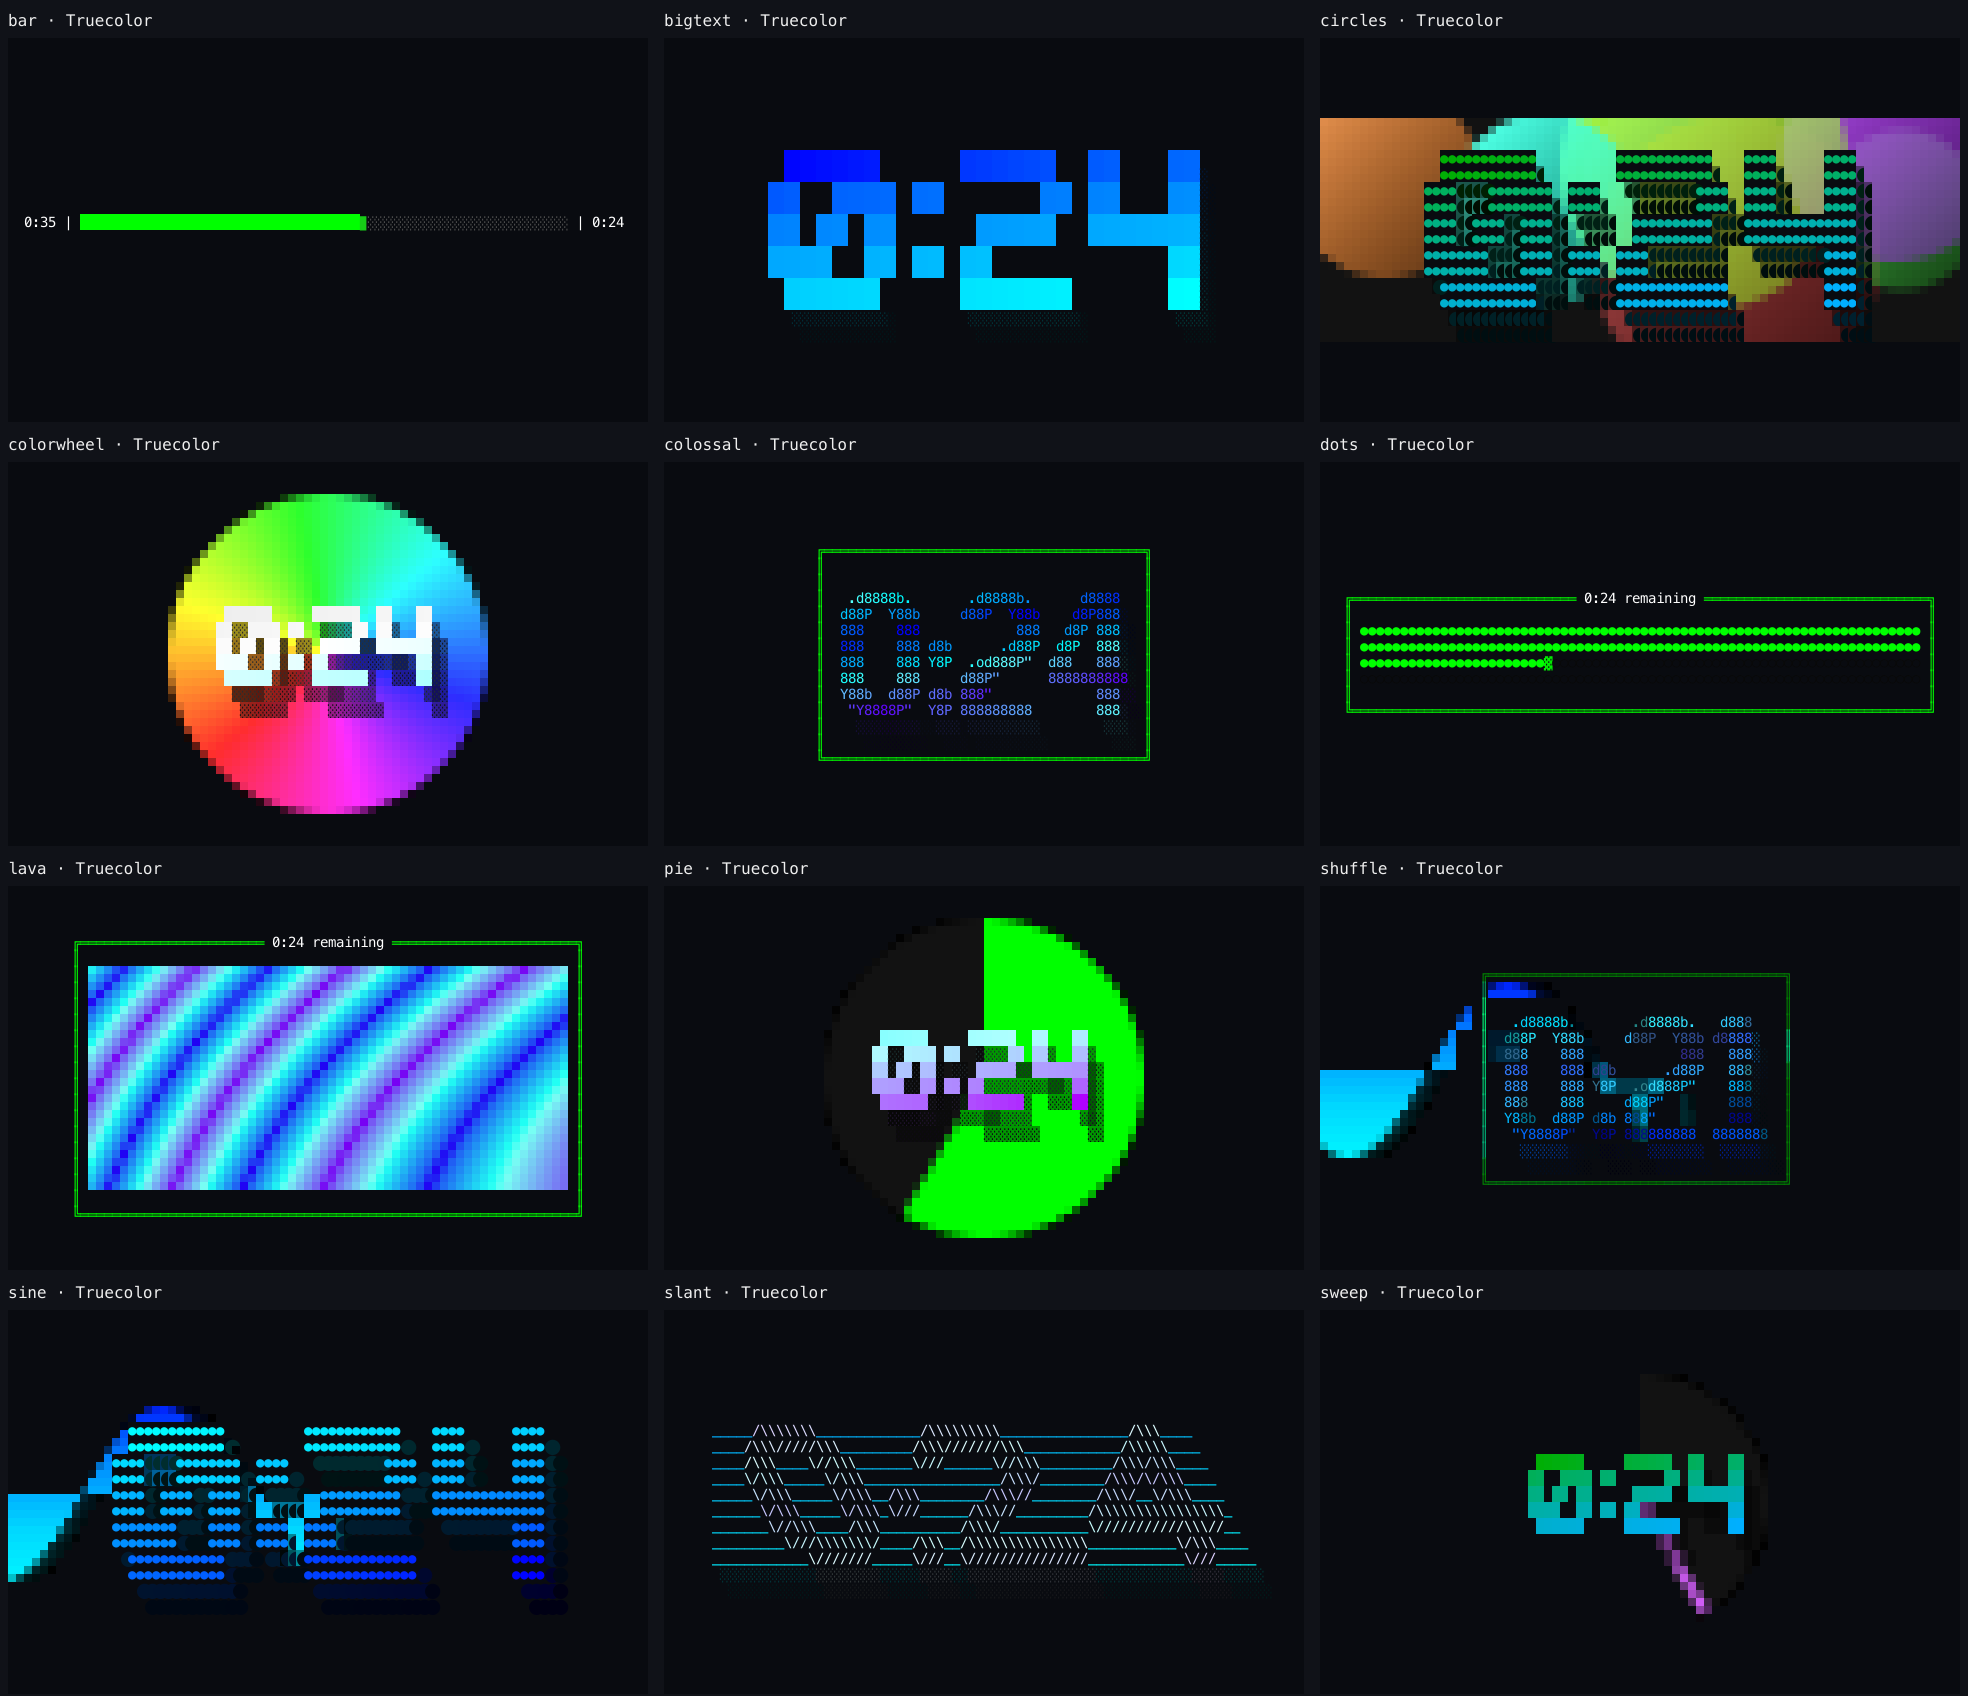
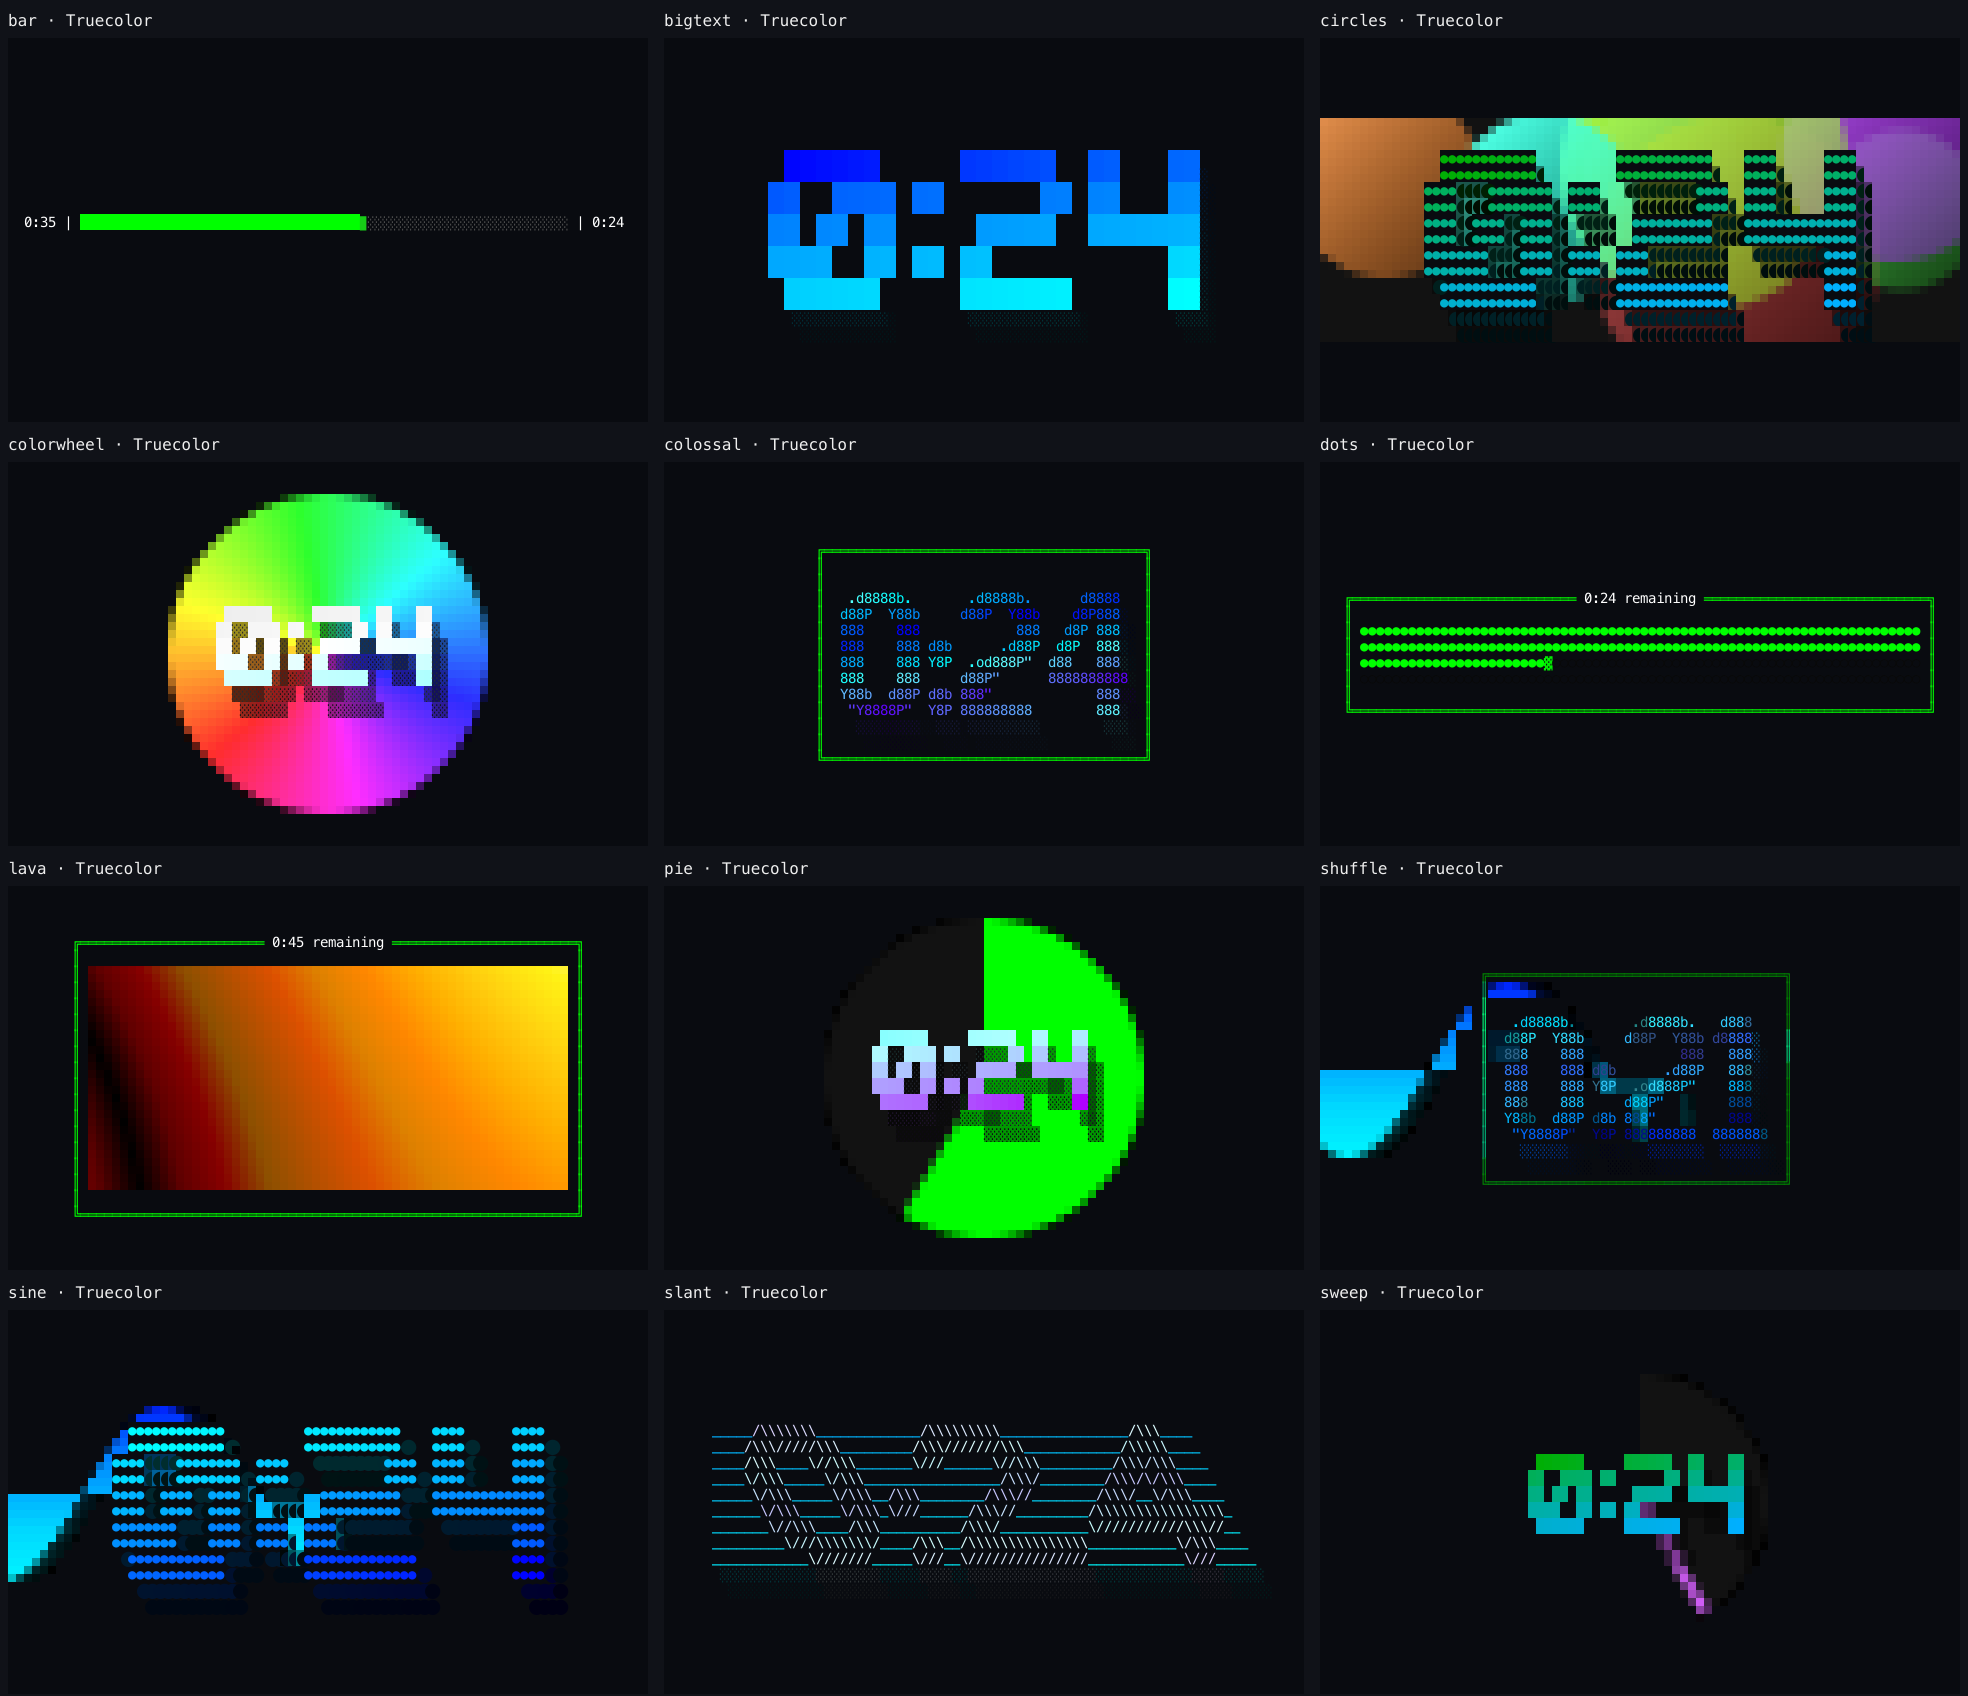
fix: soften lava bands in 256-color terminals

Changed region(s): [[0.031, 0.5625, 0.31, 0.7188]]

diff --git a/src/effects.rs b/src/effects.rs
@@ -10,10 +10,15 @@ use crate::{
         put_color, text,
     },
     model::TimerDetails,
-    palette::DOUBLE_GRADIENTS,
 };
 
 const MAP_SIZE: usize = 800;
+// Related warm ramps stay saturated while crossfading, including after quantization.
+const LAVA_GRADIENTS: &[&[u8]] = &[
+    &[16, 52, 88, 124, 160, 196, 202, 208, 214, 220, 226, 230],
+    &[16, 52, 88, 124, 160, 196, 202, 208, 214, 215, 216, 223],
+    &[16, 52, 88, 94, 130, 166, 172, 208, 214, 220, 226, 230],
+];
 
 pub struct Effects {
     seed: u64,
@@ -132,7 +137,7 @@ impl Effects {
         if self.lava_gradient.map(|(cached, _, _)| cached) != Some(epoch) {
             let select = |epoch| {
                 let mut rng = self.epoch_rng(epoch, 1);
-                DOUBLE_GRADIENTS[rng.random_range(0..DOUBLE_GRADIENTS.len())].1
+                LAVA_GRADIENTS[rng.random_range(0..LAVA_GRADIENTS.len())]
             };
             self.lava_gradient = Some((epoch, select(epoch), select(epoch.wrapping_add(1))));
         }
@@ -158,7 +163,8 @@ impl Effects {
                     let y = f64::from(row) * 2.0 + half;
                     let height = bilinear(&maps.0, MAP_SIZE, x + x1, y + y1)
                         + bilinear(&maps.1, MAP_SIZE, x + x2, y + y2);
-                    let phase = (height * 14.0 + details.elapsed * 0.03).rem_euclid(2.0);
+                    // Broad lobes avoid sub-cell rainbow stripes in limited palettes.
+                    let phase = (height * 2.0 + details.elapsed * 0.03).rem_euclid(2.0);
                     let position = if phase <= 1.0 { phase } else { 2.0 - phase };
                     Some(mix(gradient(from, position), gradient(to, position), blend))
                 };
@@ -399,6 +405,53 @@ mod tests {
     use super::*;
 
     #[test]
+    fn lava_256_avoids_dense_high_contrast_stripes() {
+        use crate::color::{OutputPolicy, adapt_buffer, color_rgb};
+
+        let area = Rect::new(0, 0, 120, 40);
+        for seed in 0..4 {
+            let mut effects = Effects::new();
+            effects.seed = seed;
+            for elapsed in [0.0, 6.0, 10.0, 19.9, 20.1] {
+                let mut buf = Buffer::empty(area);
+                effects.draw(
+                    "lava",
+                    TimerDetails {
+                        elapsed,
+                        duration: 60.0,
+                    },
+                    area,
+                    &mut buf,
+                );
+                adapt_buffer(&mut buf, OutputPolicy::Ansi256);
+                let (mut abrupt, mut edges) = (0, 0);
+                for y in 0..area.height {
+                    for x in 0..area.width - 1 {
+                        let (a, b) = (&buf[(x, y)], &buf[(x + 1, y)]);
+                        if a.symbol() != "▀" || b.symbol() != "▀" {
+                            continue;
+                        }
+                        for (a, b) in [(a.fg, b.fg), (a.bg, b.bg)] {
+                            let (r, g, b1) = color_rgb(a).unwrap();
+                            let (r2, g2, b2) = color_rgb(b).unwrap();
+                            edges += 1;
+                            // One cube step is unavoidable; repeated jumps beyond it alias.
+                            if r.abs_diff(r2).max(g.abs_diff(g2)).max(b1.abs_diff(b2)) > 95 {
+                                abrupt += 1;
+                            }
+                        }
+                    }
+                }
+                assert!(edges > 1000);
+                assert!(
+                    abrupt * 100 < edges,
+                    "seed {seed}, {elapsed}s: {abrupt}/{edges} abrupt edges"
+                );
+            }
+        }
+    }
+
+    #[test]
     fn bilinear_preserves_points_and_interpolates_interior_and_wrapped_edges() {
         let map = [0.0, 2.0, 4.0, 6.0];
         assert_eq!(bilinear(&map, 2, 0.0, 0.0), 0.0);
@@ -418,7 +471,7 @@ mod tests {
             u16::from(ar.abs_diff(br)) + u16::from(ag.abs_diff(bg)) + u16::from(ab.abs_diff(bb))
         };
         assert!(distance(hue(0.9999), hue(0.0001)) <= 2);
-        let stops = DOUBLE_GRADIENTS[0].1;
+        let stops = crate::palette::DOUBLE_GRADIENTS[0].1;
         let stop = 1.0 / (stops.len() - 1) as f64;
         assert!(
             distance(

diff --git a/docs/verification.md b/docs/verification.md
@@ -127,6 +127,25 @@ requirements. Deterministic shuffle coverage does not force every combination of
 text/geometric countdown classifications; native emulator appearance also remains
 a manual check. Final-head CI results are recorded on the renderer PR.
 
+### Lava correction after terminal feedback
+
+The initial refinement still repeated a multicolor palette fourteen times across
+the summed height field. This produced tightly packed rainbow bands even in RGB;
+256-color quantization made the boundaries harsher, while unrelated palette
+crossfades could become gray. Real-buffer captures reproduced the supplied image.
+Lava now uses a lower spatial frequency and three related black/red/orange/gold
+ramps, preserving elapsed-time motion, halfblock sampling and epoch continuity.
+Other renderers and the global palette catalog are unchanged.
+
+The regression fails before the fix at seed 0, six seconds: 320 of 4272 horizontal
+half-sample neighbors differ by more than 95 in a channel after 256-color adaptation.
+The corrected field stays below 1% across four seeds at 0, 6, 10, 19.9 and 20.1
+seconds. A one-step palette jump is allowed: indexed color still has visible steps.
+All 61 Rust tests, formatting, strict Clippy, release build and expanded PTY smoke
+pass. Focused review `20261015-144350-1d2be19e` found no defects. The all-renderer
+preview was refreshed; `visuals/lava-256-preview.png` shows the actual 256-color
+buffer at six seconds. Appearance and motion in the user's emulator remain manual.
+
 ## Historical port frame preparation
 
 Release mode; 120x40 buffer; 600 frames per renderer after warming. Includes

diff --git a/README.md b/README.md
@@ -68,7 +68,8 @@ The default, `shuffle`, changes renderer every ten active seconds and wipes into
 the next renderer over the last 2.5 seconds of each slot.
 
 Pixel effects use foreground/background halfblocks for finer vertical detail.
-Lava interpolates its height maps and palettes; colorwheel rotates continuously;
+Lava interpolates its height maps and warm palettes across broad lobes;
+colorwheel rotates continuously;
 pie and sweep have softer contours; circles add lighting and generation fades;
 sine includes a shaded trailing wave. Bar and dots show fractional segments.
 The three text renderers retain their fonts and stable sizing with richer shading
